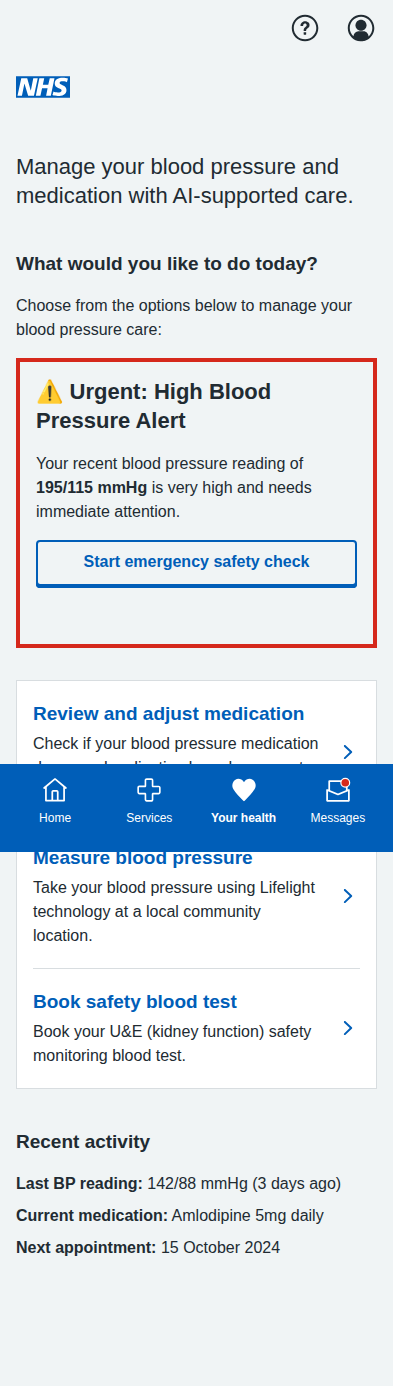
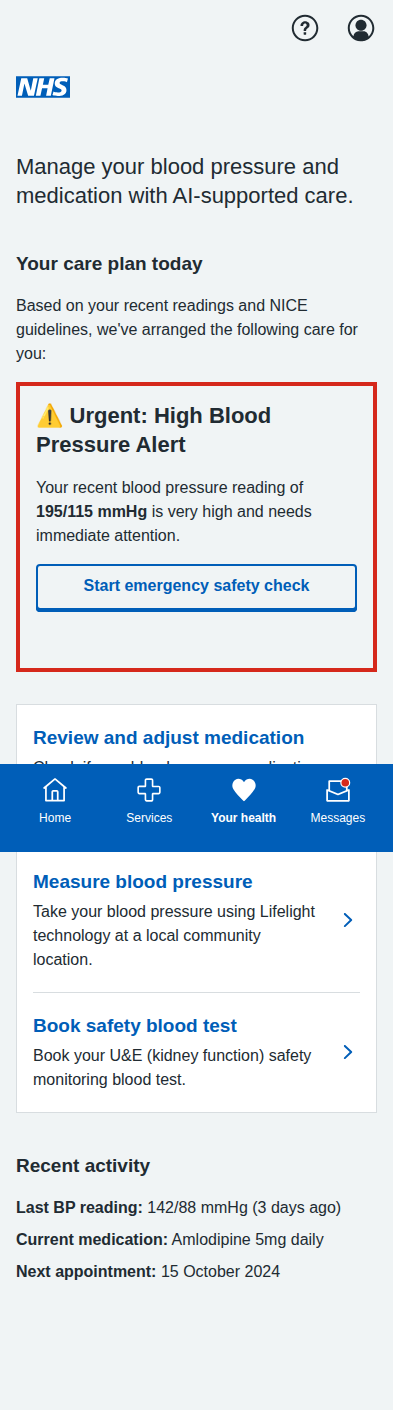
Update Red Flag dashboard to reflect orchestrator-driven care plans instead of user choice

diff --git a/prototype/v1/app/views/pages/mybp/index.html b/prototype/v1/app/views/pages/mybp/index.html
@@ -30,10 +30,10 @@
 
       <!-- SECTION - HYPERTENSION MANAGEMENT -->
       {{ nhsappSectionHeading({
-        headingText: "What would you like to do today?"
+        headingText: "Your care plan today"
       }) }}
 
-      <p>Choose from the options below to manage your blood pressure care:</p>
+      <p>Based on your recent readings and NICE guidelines, we've arranged the following care for you:</p>
 
       <!-- RED FLAG ALERT - Only shown when high BP detected -->
       <div class="nhsuk-error-summary" aria-labelledby="error-summary-title" role="alert" style="border-left-color: #d5281b; margin-bottom: 32px;">

diff --git a/prototype/v1/screenshots/screenshots.md b/prototype/v1/screenshots/screenshots.md
@@ -81,7 +81,7 @@ Complete collection of iPhone-formatted screenshots (393x852 pixels) for all scr
 
 ### 1. Dashboard with Red Flag Alert
 ![Dashboard with Red Flag Alert](red-flag-dashboard.png)
-**My BP Dashboard with Emergency Alert** - The main blood pressure dashboard displaying a prominent red flag alert when blood pressure readings reach dangerous levels (≥195/115 mmHg), providing immediate access to the emergency safety workflow.
+**My BP Dashboard with Emergency Alert** - The main blood pressure dashboard showing the orchestrator's care plan based on NICE guidelines. Features a prominent red flag alert when blood pressure readings reach dangerous levels (≥195/115 mmHg), with the system automatically arranging appropriate care rather than asking for user preferences.
 
 ### 2. Symptom Confirmation Screen
 ![Symptom Confirmation](red-flag-symptom-confirmation.png)
